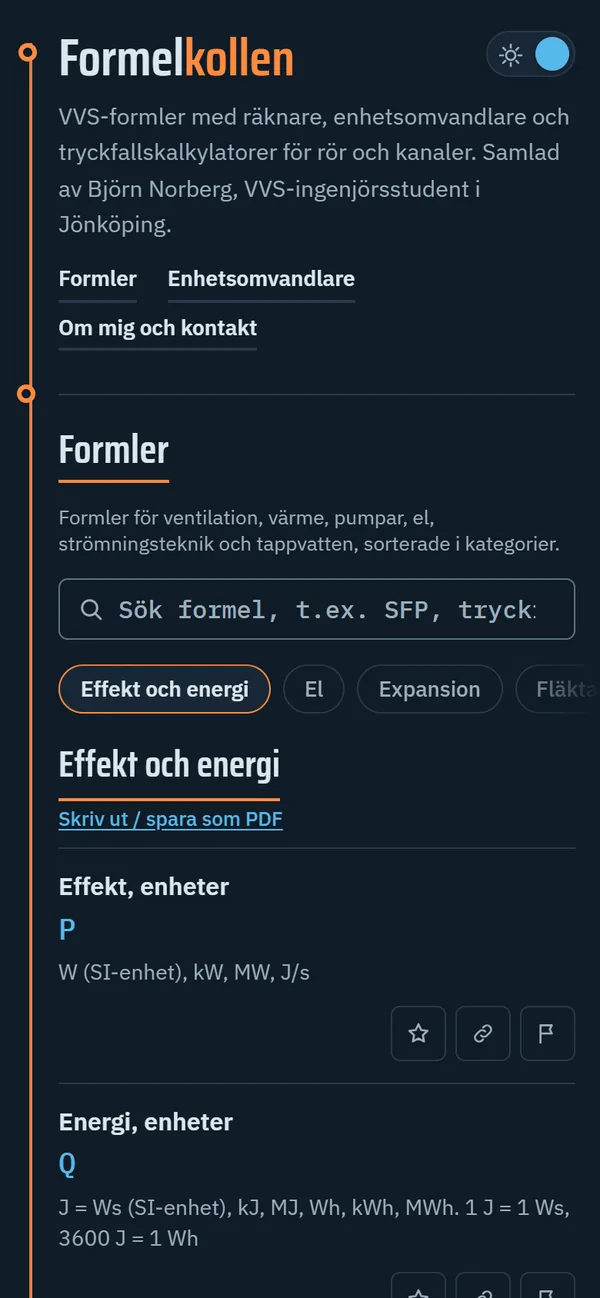
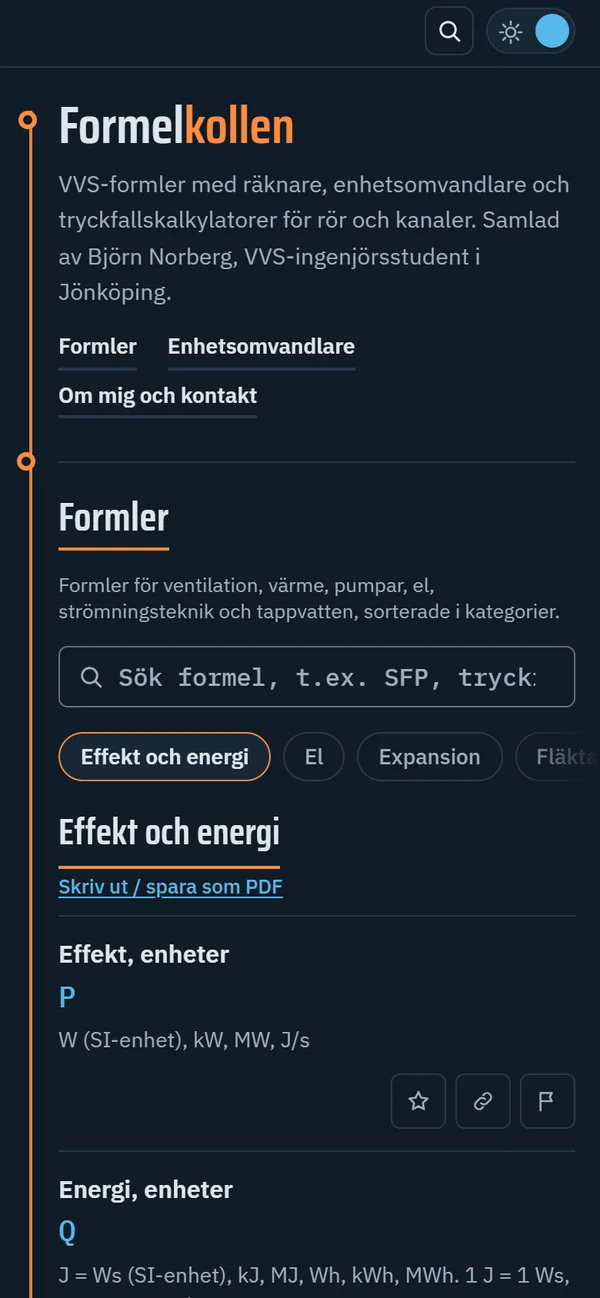
Ny skärmdump av Formelkollen och ny delningsbild

diff --git a/public/index.html b/public/index.html
@@ -20,7 +20,7 @@
 <meta property="og:url" content="https://junestaden.se/">
 <meta property="og:title" content="Junestaden – webbverktyg för bygg och vardag">
 <meta property="og:description" content="Nordrange, Formelkollen, Mängdkollen och EPAkollen – gratis webbverktyg för elbilsresor, VVS-formler, materialåtgång och EPA-resor. Utan inloggning, i mobilen och på datorn.">
-<meta property="og:image" content="https://junestaden.se/img/og.jpg?v=11">
+<meta property="og:image" content="https://junestaden.se/img/og.jpg?v=12">
 <meta property="og:image:width" content="1200">
 <meta property="og:image:height" content="630">
 <meta name="twitter:card" content="summary_large_image">

diff --git a/public/om.html b/public/om.html
@@ -20,7 +20,7 @@
 <meta property="og:url" content="https://junestaden.se/om">
 <meta property="og:title" content="Om mig – Björn Norberg">
 <meta property="og:description" content="VVS-student med 20 år i byggbranschen som bygger egna verktyg för bygg och vardag.">
-<meta property="og:image" content="https://junestaden.se/img/og.jpg?v=11">
+<meta property="og:image" content="https://junestaden.se/img/og.jpg?v=12">
 <meta property="og:image:width" content="1200">
 <meta property="og:image:height" content="630">
 <meta property="profile:first_name" content="Björn">
